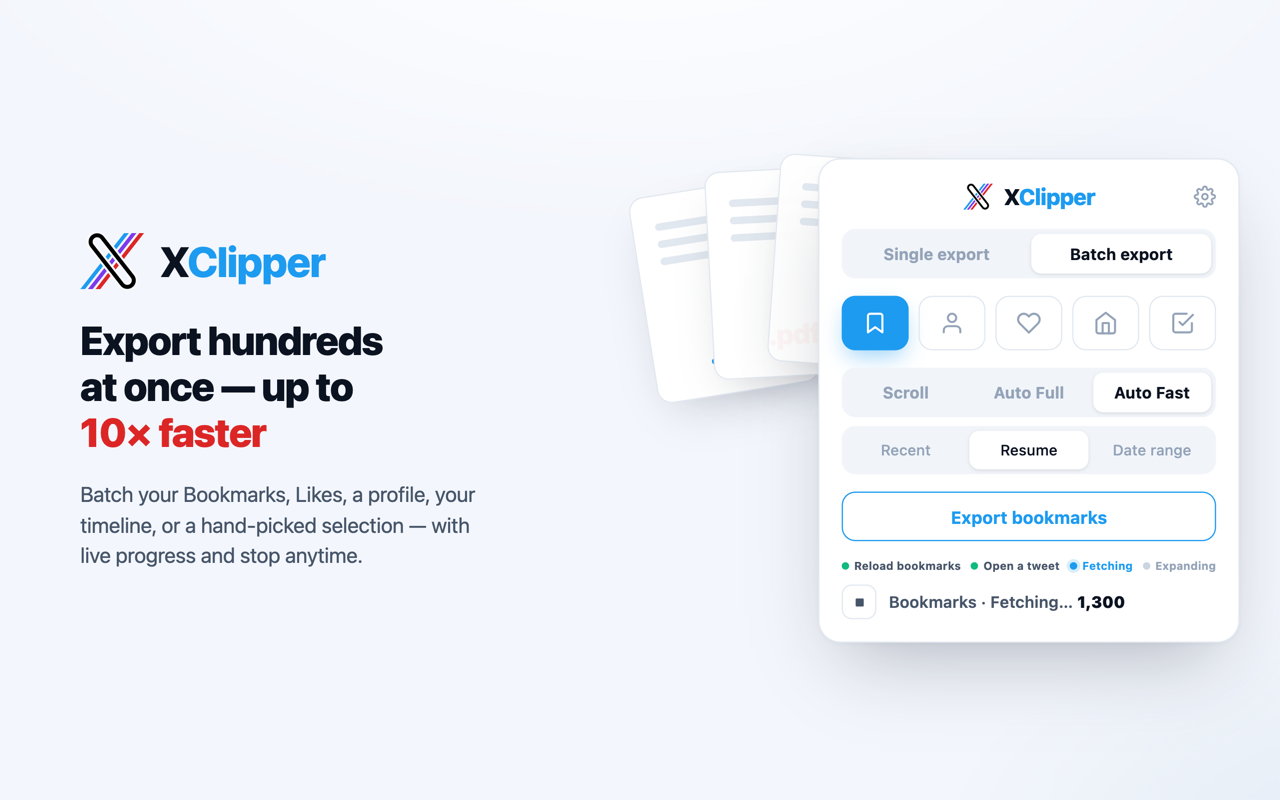
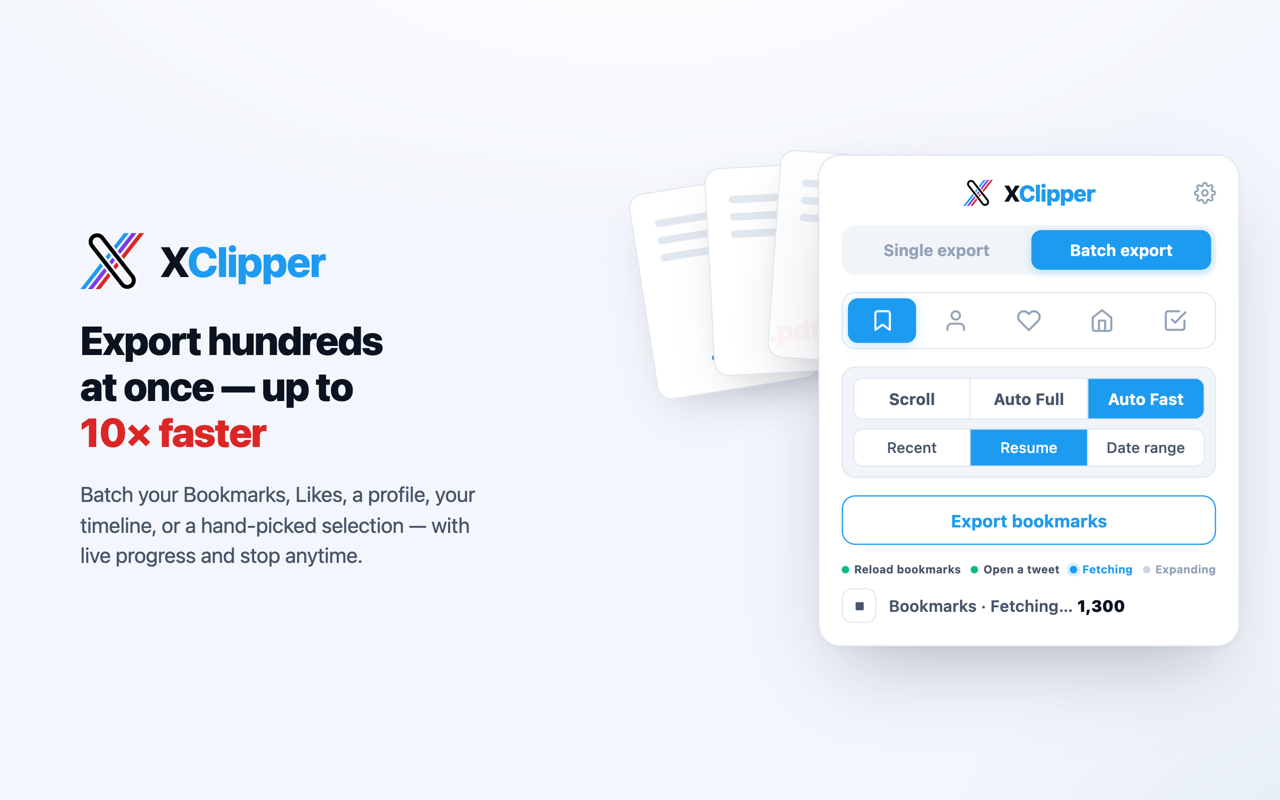
fix(mockups): match the popup's selected state and grouping in the batch screenshot
Every selector now marks its choice with a blue fill, the source tabs are
one outlined strip, and the engine and fetch-mode rows share a gray box,
as in the popup.

diff --git a/store/mockups/07-batch-export.html b/store/mockups/07-batch-export.html
@@ -145,24 +145,28 @@
 
   .seg { display: flex; align-items: center; background: #f1f5f9; border-radius: 11px; padding: 4px; gap: 4px; }
   .seg .opt { flex: 1; text-align: center; font-size: 13px; font-weight: 700; color: var(--ink-3); padding: 8px 0; border-radius: 8px; }
-  .seg .opt.active { background: #ffffff; color: var(--ink); box-shadow: 0 1px 3px rgba(15,23,42,.12); }
+  /* Selected is a blue fill with white text in every selector, as in the popup. */
+  .seg .opt.active { background: var(--brand); color: #fff; box-shadow: 0 2px 8px rgba(29,155,240,.25); }
 
-  .tabs { display: flex; gap: 8px; }
+  /* Source tabs: one outlined strip with the selected tab as a blue pill inside. */
+  .tabs { display: flex; gap: 4px; padding: 4px; border: 1px solid var(--line); border-radius: 11px; }
   .tab {
-    flex: 1; height: 44px;
-    border: 1px solid var(--line); border-radius: 11px;
+    flex: 1; height: 36px;
+    border-radius: 8px;
     display: flex; align-items: center; justify-content: center;
     color: var(--ink-3);
   }
   .tab svg { width: 20px; height: 20px; fill: none; stroke: currentColor; stroke-width: 2; stroke-linecap: round; stroke-linejoin: round; }
-  .tab.active { background: var(--brand); border-color: var(--brand); color: #fff; box-shadow: 0 8px 18px -4px rgba(29,155,240,.45); }
+  .tab.active { background: var(--brand); color: #fff; box-shadow: 0 2px 8px rgba(29,155,240,.25); }
 
-  .mode-field { display: flex; flex-direction: column; gap: 7px; }
-  .mode { display: flex; align-items: center; background: #f1f5f9; border-radius: 11px; padding: 4px; gap: 4px; }
-  .mode .opt { flex: 1; display: flex; align-items: center; justify-content: center; gap: 5px; font-size: 13px; font-weight: 700; color: var(--ink-3); padding: 8px 0; border-radius: 8px; }
-  .mode .opt.active { background: #ffffff; color: var(--ink); box-shadow: 0 1px 3px rgba(15,23,42,.12); }
+  /* Engine + fetch mode share a gray box; each is an outlined segment row on white. */
+  .mode-field { display: flex; flex-direction: column; gap: 7px; padding: 8px; background: #f1f5f9; border: 1px solid var(--line); border-radius: 11px; }
+  .mode { display: flex; background: #ffffff; border: 1px solid var(--line); border-radius: 8px; overflow: hidden; }
+  .mode .opt { flex: 1; display: flex; align-items: center; justify-content: center; font-size: 13px; font-weight: 700; color: var(--ink-2); padding: 8px 0; }
+  .mode .opt + .opt { border-left: 1px solid var(--line); }
+  .mode .opt.active { background: var(--brand); color: #fff; }
   /* Fetch mode is the secondary choice, lighter than the engine row, as in the popup. */
-  .mode.fetch .opt { font-size: 12px; font-weight: 500; }
+  .mode.fetch .opt { font-size: 12px; font-weight: 500; padding: 7px 0; }
   /* Outlined in the brand color, like the popup's Export button. */
   .export-btn { height: 40px; border: 1.5px solid var(--brand); border-radius: 11px; display: flex; align-items: center; justify-content: center; font-size: 14px; font-weight: 700; color: var(--brand); }
 
